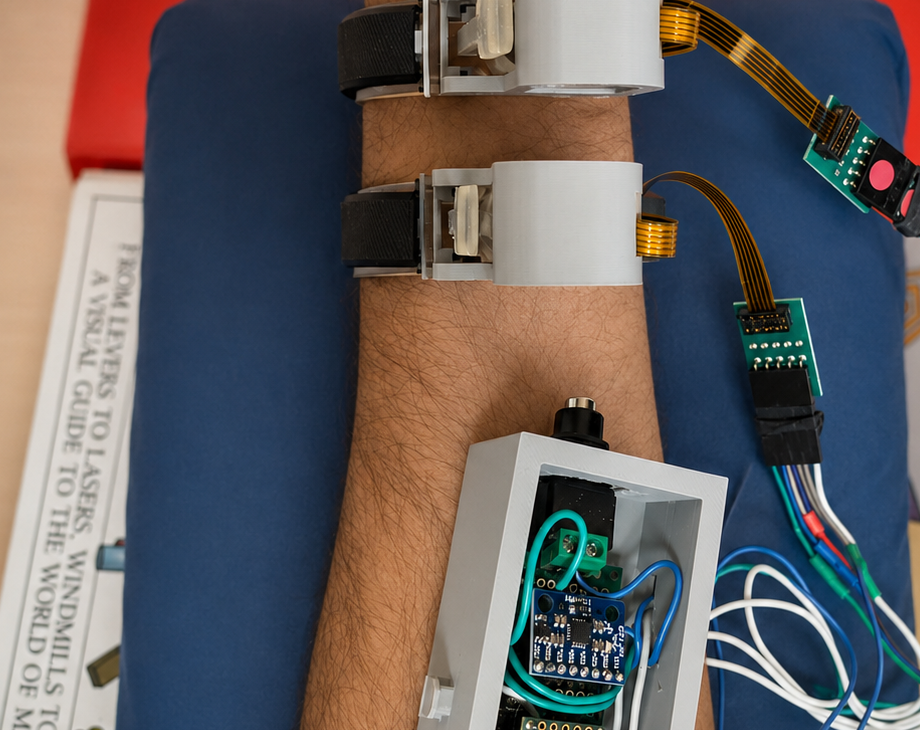
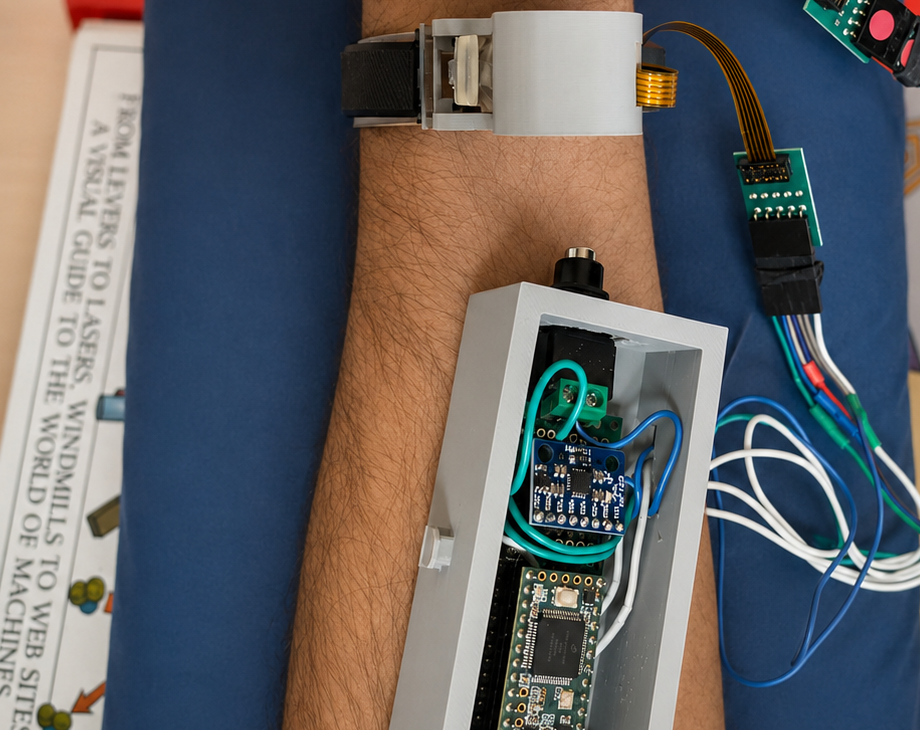
Adjust haptic image crop lower, revert object-position to top center
Haptic crop shifted down ~150px to center on control box + Teensy rather than top actuator.
Reverts global object-position from center back to top center so bimanual and other landscape images display correctly.

diff --git a/_sass/_custom.scss b/_sass/_custom.scss
@@ -177,7 +177,7 @@
       width: 100%;
       height: 100%;
       object-fit: cover;
-      object-position: center;
+      object-position: top center;
       display: block;
     }
   }
@@ -251,7 +251,7 @@
       width: 100%;
       height: 100%;
       object-fit: cover;
-      object-position: center;
+      object-position: top center;
       display: block;
     }
   }
